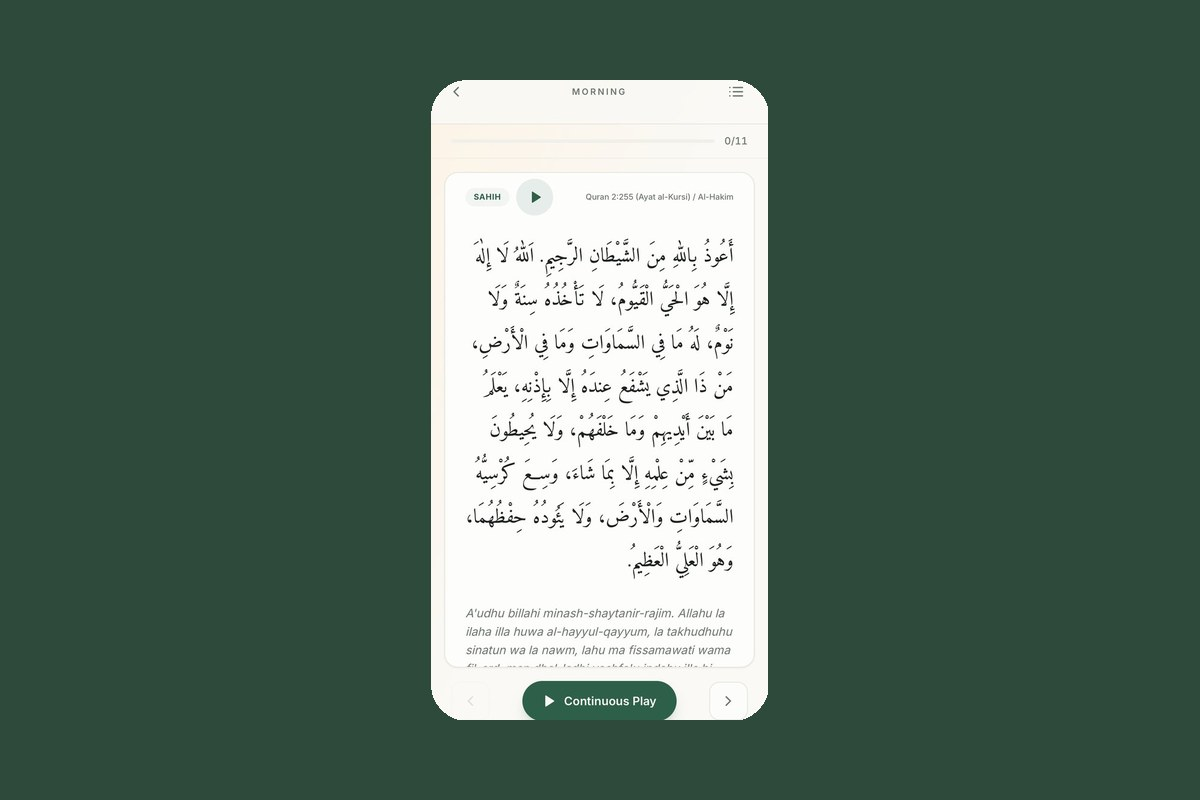
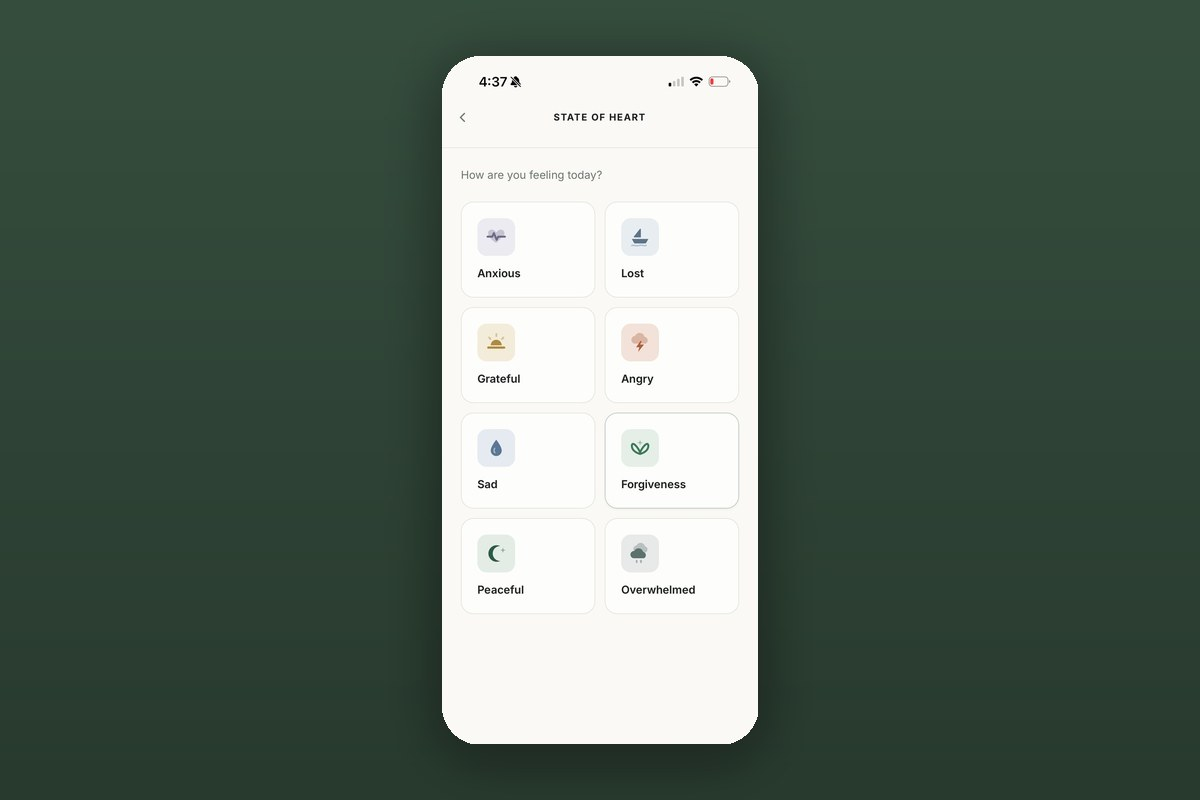
Homepage grid: refresh card images + fix mobile fit
- Watch card: real dune footage still (matches the hero clip)
- Read card: premium two-book composition (Duas + Juha)
- Reflect card: the mood 'State of Heart' screen as a phone on forest
- Hero phone now the mood screen; cards show full 3:2 on mobile (no crop)

Changed region(s): [[0.3392, 0.0625, 0.6475, 0.9688]]

diff --git a/components/Gateway.module.css b/components/Gateway.module.css
@@ -307,8 +307,8 @@
   .heroArt { max-width: 420px; margin: 8px auto 0; }
   .grid {
     grid-template-columns: 1fr;
-    max-width: 520px;
+    max-width: 460px;
     margin: 0 auto;
   }
-  .doorImgWrap { aspect-ratio: 16 / 9; }
+  .doorImgWrap { aspect-ratio: 3 / 2; }
 }

diff --git a/components/Gateway.tsx b/components/Gateway.tsx
@@ -99,7 +99,7 @@ export default function Gateway() {
               <Image src="/images/book-duas.jpg" alt="" width={520} height={520} className={styles.artImg} />
             </span>
             <span className={`${styles.artCard} ${styles.artPhone}`}>
-              <Image src="/images/app-journal.jpg" alt="" width={360} height={685} className={styles.artImg} />
+              <Image src="/images/app-heart.jpg" alt="" width={360} height={685} className={styles.artImg} />
             </span>
           </div>
         </div>